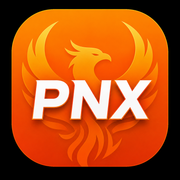
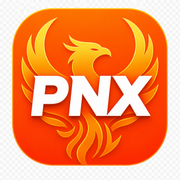
chore(brand): PNX 로고 PNG 교체 — transparent 배경 (#17)
* feat(nav): 디스코드 서버 초대 — 좌측 사이드바 푸터 + 모바일 SETTING

외국인 유저의 커뮤니티 합류를 위해 Discord 영구 초대 링크를 모든 페이지에 노출.

- PC: LeftNav 하단에 SETTING 섹션(border-top + 라벨) 추가, 4개 탭(입문가이드/이벤트/연맹관리/미니게임) 공통 고정. 사이드바 다른 항목과 동일 톤(텍스트 위주) + 22px 아이콘 박스만 #5865F2 브랜드 컬러로 식별성 부여.
- 모바일: 햄버거 SETTING 섹션 안 언어 row 바로 밑에 동일 패턴 row 추가.
- i18n: discord.label / discord.aria 키 ko/en 추가.

* chore(brand): PNX 로고 PNG 교체 — transparent 배경 버전

- 원본 1254×1254 (transparent) → sharp 로 favicon (16/32/96) + apple-touch-icon (180) + 헤더 logo (96, retina) 일괄 재생성.
- 마크업 / CSS 변경 없음 — 파일만 교체.

---------

diff --git a/src/i18n/en.ts b/src/i18n/en.ts
@@ -41,6 +41,10 @@ export const en: Translations = {
     ko: '한국어',
     en: 'English',
   },
+  discord: {
+    label: 'Join Discord',
+    aria: 'Join our Discord server (new tab)',
+  },
   time: {
     justNow: 'just now',
     minutesAgo: '{n}m ago',

diff --git a/src/i18n/ko.ts b/src/i18n/ko.ts
@@ -40,6 +40,10 @@ export const ko = {
     ko: '한국어',
     en: 'English',
   },
+  discord: {
+    label: '디스코드 참여',
+    aria: '디스코드 서버 참여 (새 탭)',
+  },
   time: {
     justNow: '방금 전',
     minutesAgo: '{n}분 전',
